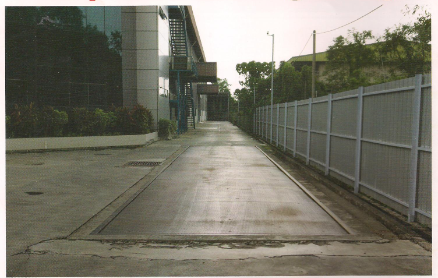
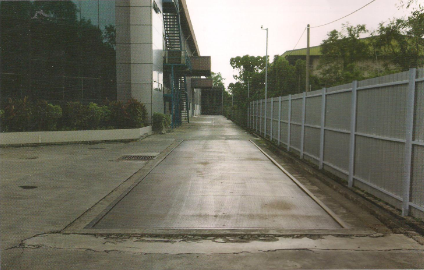
fix home page

diff --git a/assets/css/section.css b/assets/css/section.css
@@ -13,23 +13,24 @@
 }
 
 .one {
-    background-image: url(../media/precision-scales.jpg);
+    /* background-image: url(../media/precision-scales.jpg); */
+    background-image: url(../media/precision-scales-1.jpg);
 }
 
 .two {
-    background-image: url(../media/2.avif);
+    background-image: url(../media/platform-scale.jpg);
 }
 
 .three {
-    background-image: url(../media/3.avif);
+    background-image: url(../media/crane-weigher.jpeg);
 }
 
 .four {
-    background-image: url(../media/4.avif);
+    background-image: url(../media/weigh-bridge.png);
 }
 
-.seven {
-    background-image: url(../media/7.avif);
+.five {
+    background-image: url(../media/others.jpeg);
 }
 
 /* content */

diff --git a/footer.php b/footer.php
@@ -1,11 +1,11 @@
 <footer class="footer">
     <ul>
-        <li><a href="#">Tesla © 2021</a></li>
-        <li><a href="#">privacy</a></li>
+        <li><a href="#">Dx-Resources © 2023</a></li>
         <li><a href="#">contact</a></li>
-        <li><a href="#">careers</a></li>
-        <li><a href="#">news</a></li>
-        <li><a href="#">engage</a></li>
+        <!-- <li><a href="#">careers</a></li> -->
+        <!-- <li><a href="#">news</a></li> -->
+        <li><a href="#">get updates</a></li>
         <li><a href="#">locations</a></li>
+        <li><a href="#">about us</a></li>
     </ul>
 </footer>

diff --git a/index.php b/index.php
@@ -51,15 +51,6 @@
             <div class="button-container">
                 <a class="btn btn-primary" href="roof.php">Contact Us</a>
             </div>
-        </section>
-        <section class="section seven">
-            <div class="content">
-                <h1 class="title">Accessories</h1>
-            </div>
-            <div class="button-container">
-                <a class="btn btn-primary" href="#">Contact Us</a>
-            </div>
-
 <?php 
     include 'footer.php';
 ?>
